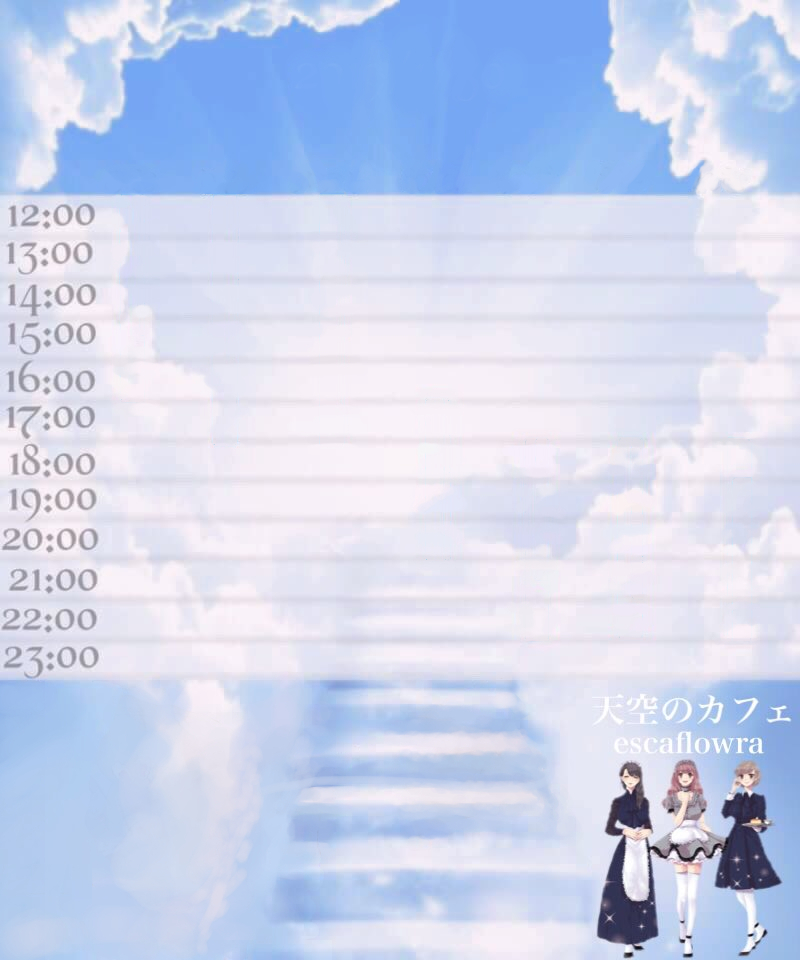
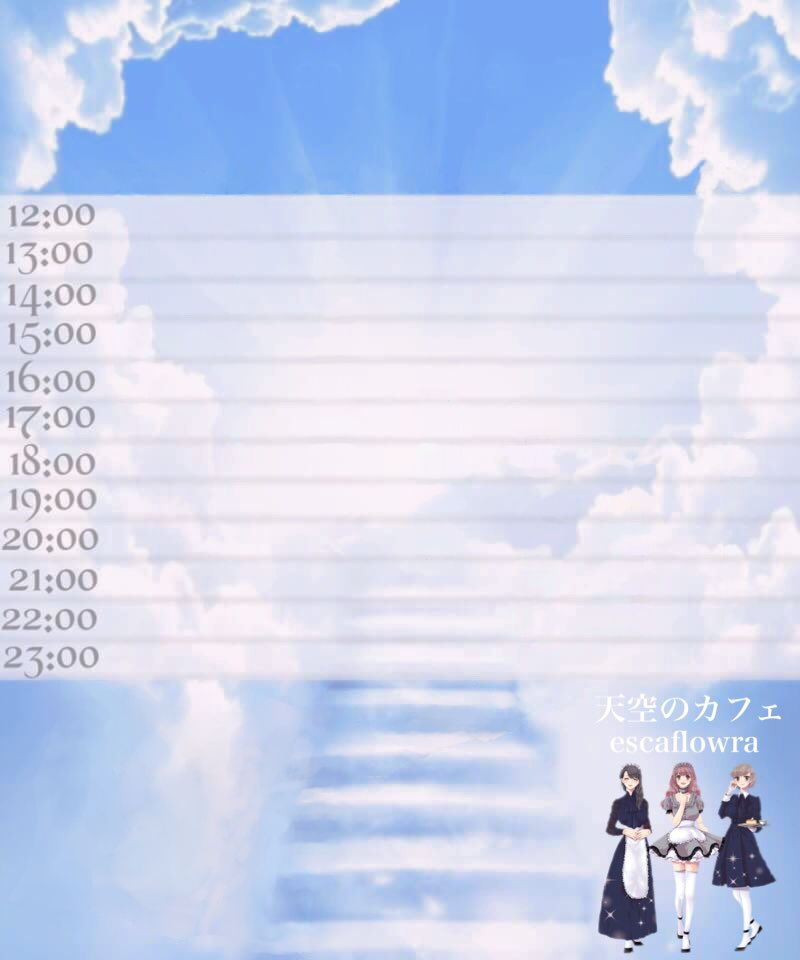
画像の更新とフォントの変更

Changed region(s): [[0.75, 0.7188, 1.0, 1.0], [0.5625, 0.75, 0.7188, 0.8438], [0.0, 0.9375, 0.0625, 1.0]]

diff --git a/docs/js/sample.js b/docs/js/sample.js
@@ -123,7 +123,7 @@ function getElementsWithAttribute(parent, attributeName, value) {
 function putDate() {
     const fontSize = 40;
     const lineHeight = fontSize * 1.2;
-    ctx.font = fontSize + "px 'ヒラギノ角ゴ W3'";
+    ctx.font = fontSize + "px 'ヒラギノ明朝 W6'";
     ctx.textAlign = 'center';
     ctx.textBaseline = 'middle';
     ctx.fillStyle = '#ffffff';
